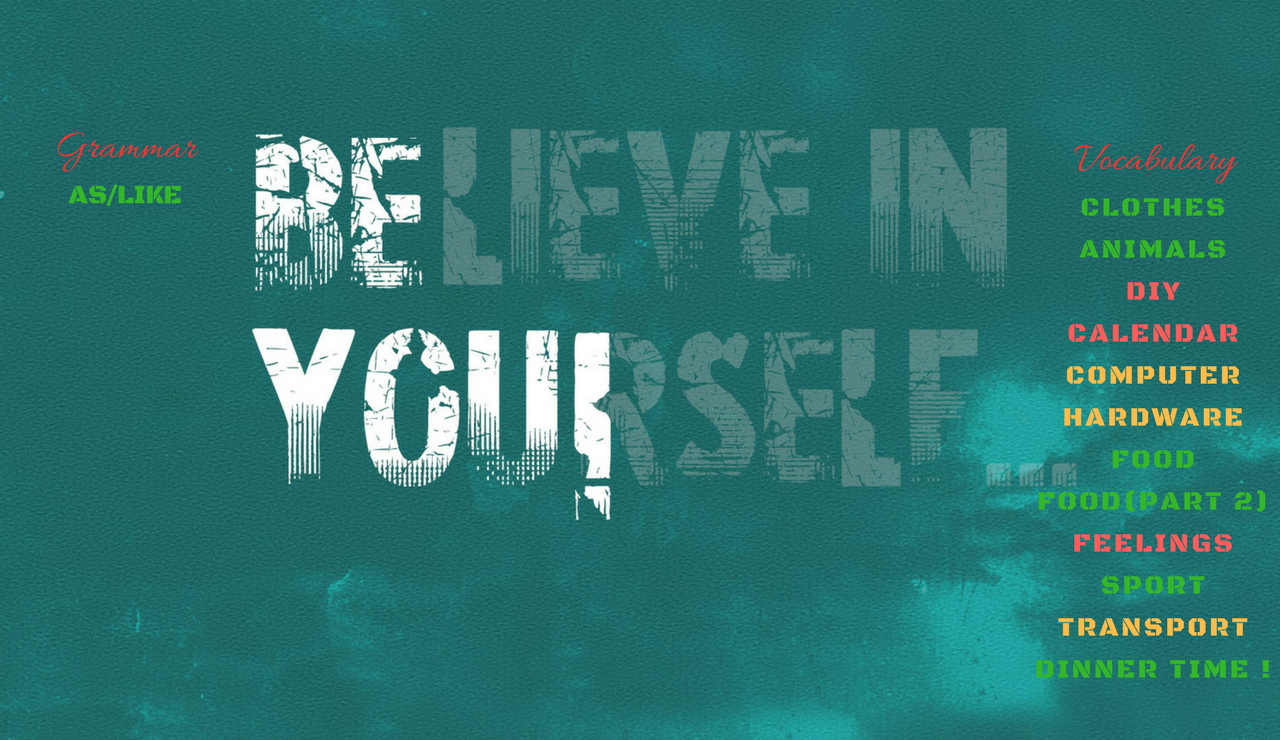
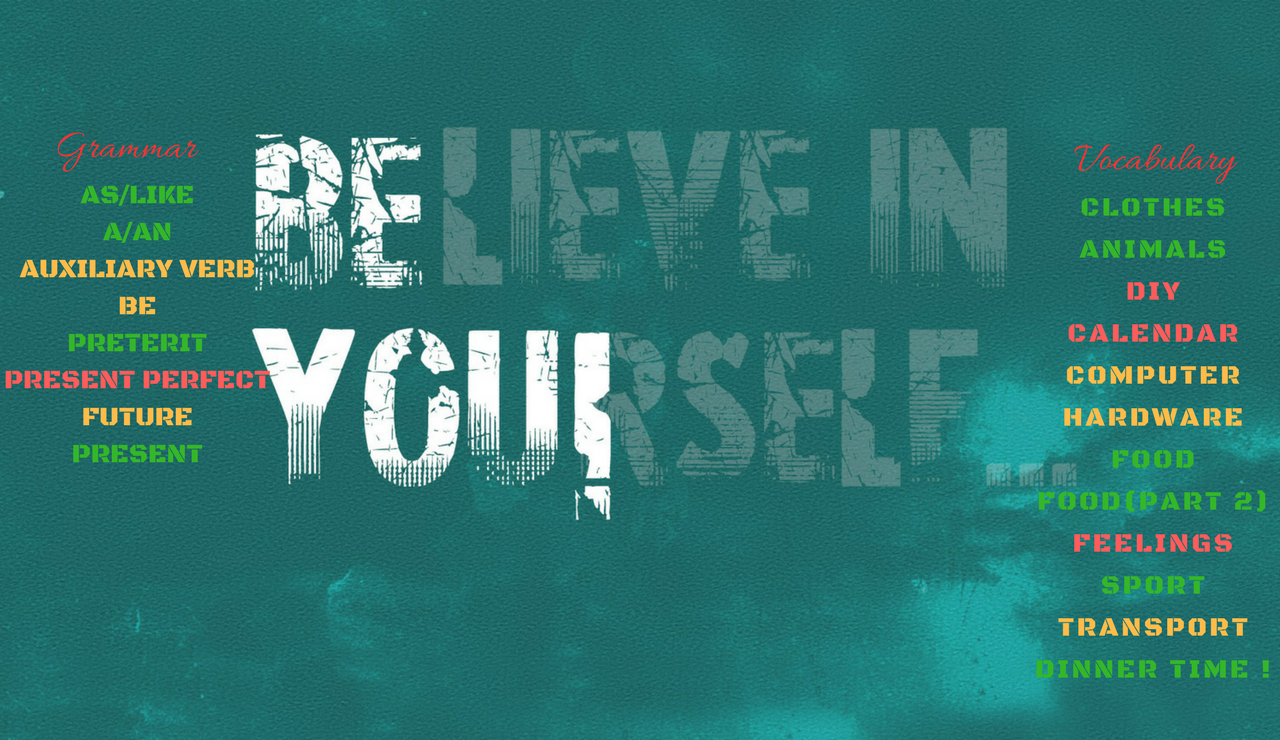
Cours update

Changed region(s): [[0.0, 0.2486, 0.2188, 0.6216]]

diff --git a/src/anglais/Fenetre.java b/src/anglais/Fenetre.java
@@ -3,6 +3,7 @@ package anglais;
 import javax.swing.JFrame;
 
 import Vue.VueDaccueil;
+import Vuecours.VueCours;
 
 public class Fenetre extends JFrame {
 	Modele m;
@@ -13,11 +14,10 @@ public class Fenetre extends JFrame {
 		this.setSize(1280, 740);
 	    this.setDefaultCloseOperation(JFrame.EXIT_ON_CLOSE);
 	    this.setLocationRelativeTo(null);
-	    
 	    this.m = new Modele(this);
 	    
-	    VueDaccueil v = new VueDaccueil(m);
-	    
+	    //VueDaccueil v = new VueDaccueil(m);
+	    VueCours v= new VueCours(m);
 	    this.setContentPane(v);
 	    this.setVisible(true);
 	    
